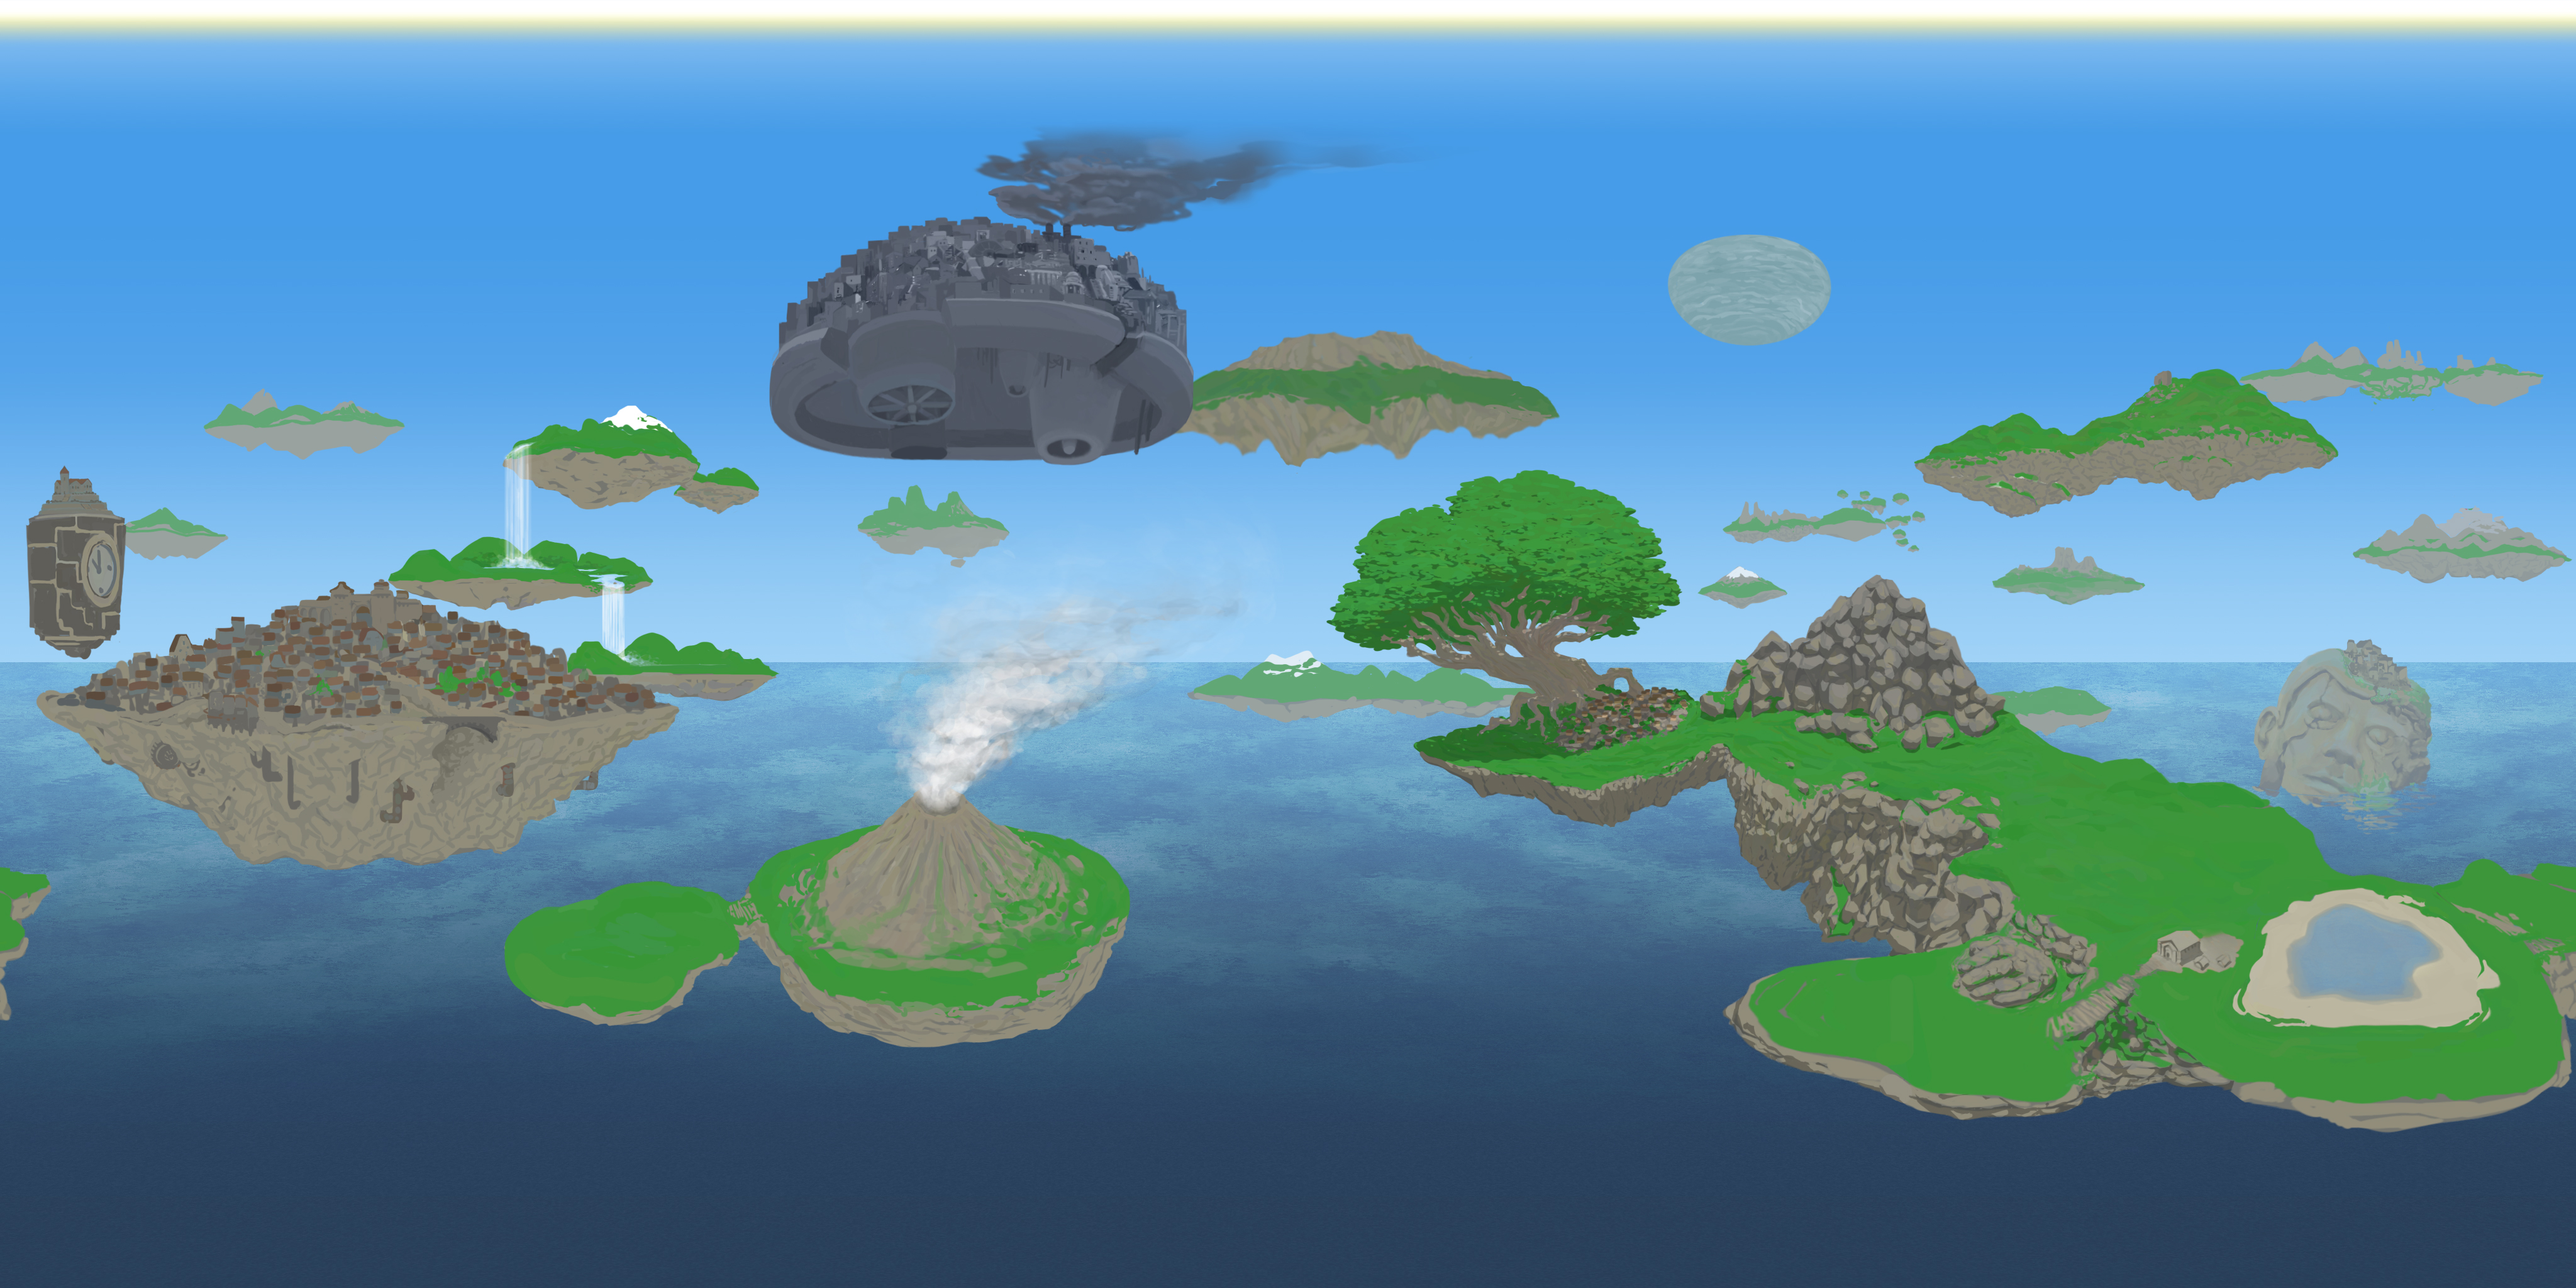
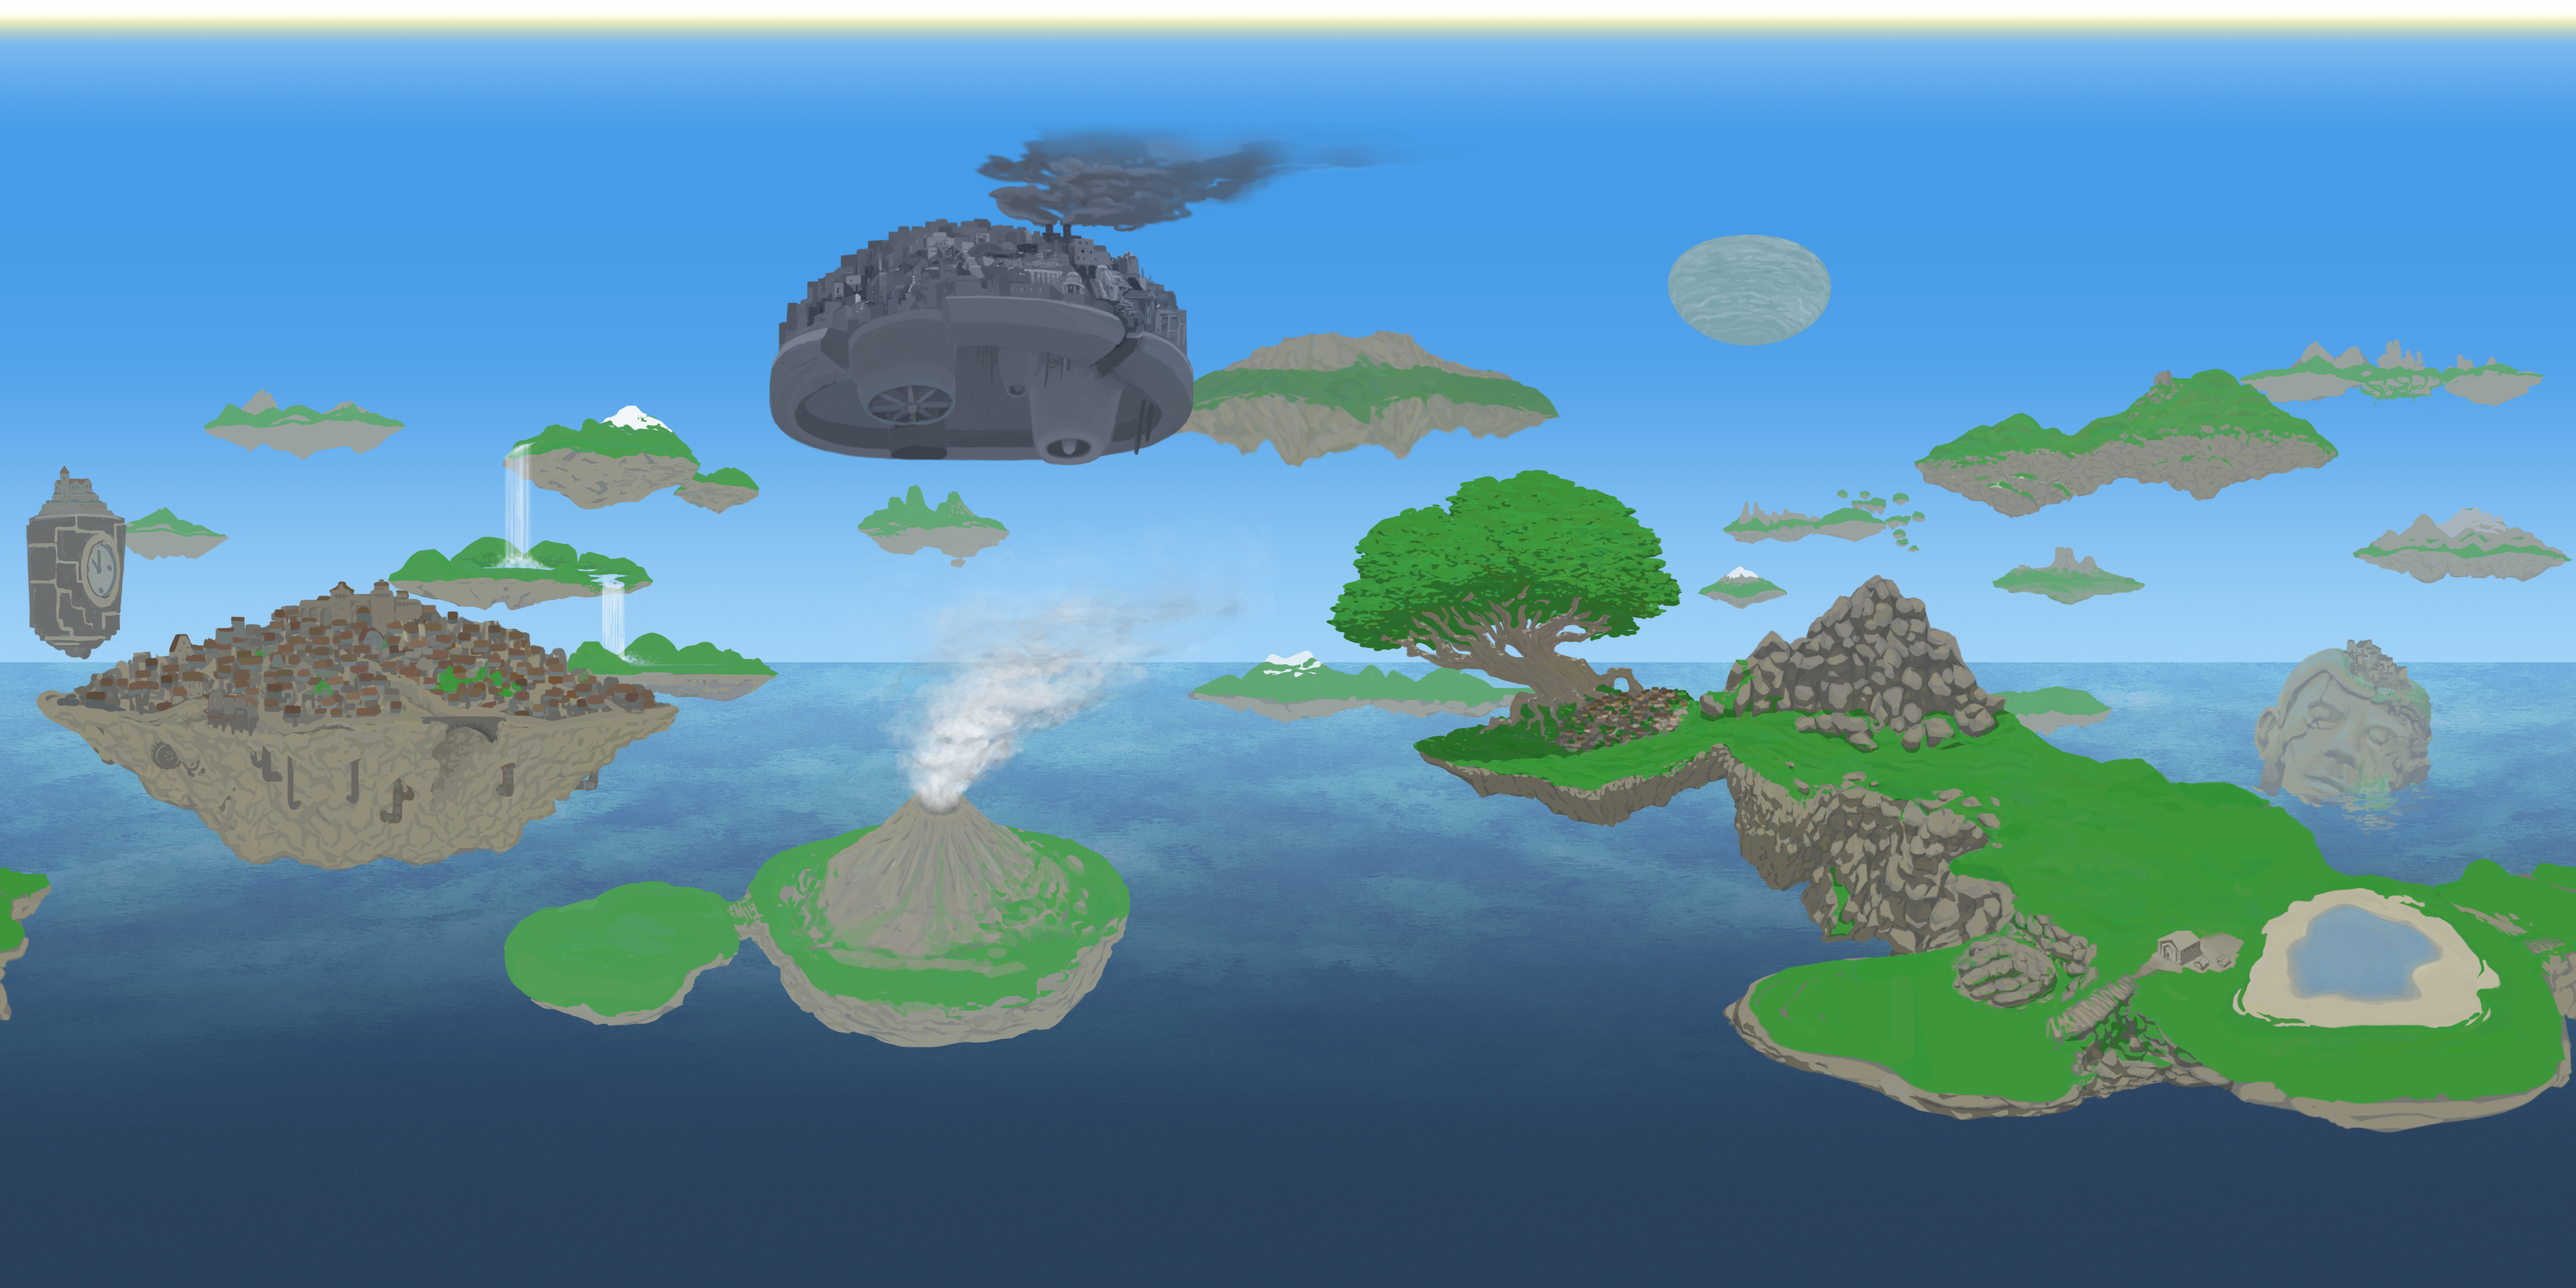
Setting back to neutral

diff --git a/test60secinteractives/index.html b/test60secinteractives/index.html
@@ -62,8 +62,8 @@
 
             var geometry = new THREE.SphereBufferGeometry( 500, 128, 64 );
             geometry.scale( - 1.0, 1.0, 1.0 );
-            // var colorsForLayersLandscape = new THREE.TextureLoader().load( 'Test3Plans.jpg' );
-            var colorsForLayersLandscape = new THREE.TextureLoader().load( 'Test3Plans_matin.jpg' );
+            var colorsForLayersLandscape = new THREE.TextureLoader().load( 'Test3Plans.jpg' );
+            // var colorsForLayersLandscape = new THREE.TextureLoader().load( 'Test3Plans_matin.jpg' );
             colorsForLayersLandscape.magFilter = THREE.LinearFilter;
             colorsForLayersLandscape.minFilter = THREE.LinearFilter;
             var material = new THREE.MeshBasicMaterial( {
